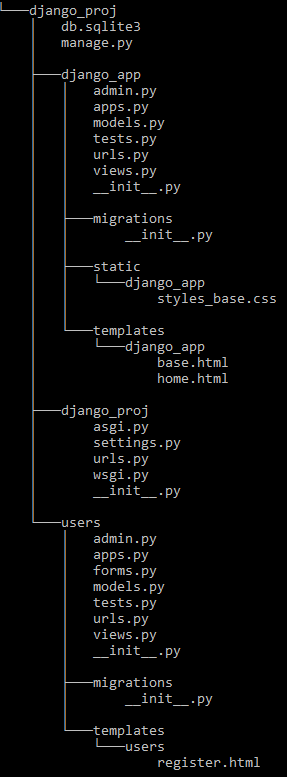
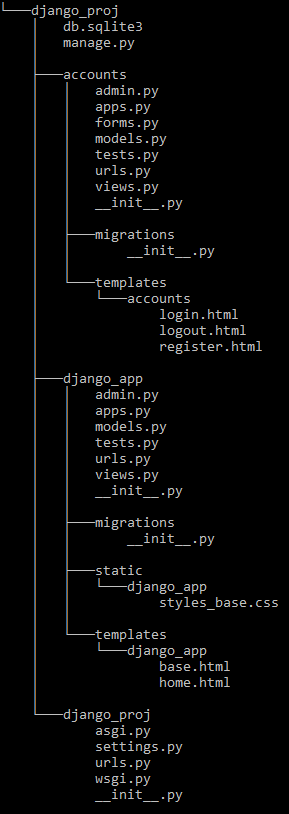
completed django login page

diff --git a/README.md b/README.md
@@ -106,6 +106,10 @@ python manage.py runserver
 
 ![Django Homepage](img/django_homepage_screenshot.PNG)
 
+#### Login Page
+
+![Django Login Page](img/django_loginpage_screenshot.PNG)
+
 #### Register Page
 
 ![Django Register Page](img/django_registerpage_screenshot.PNG)
